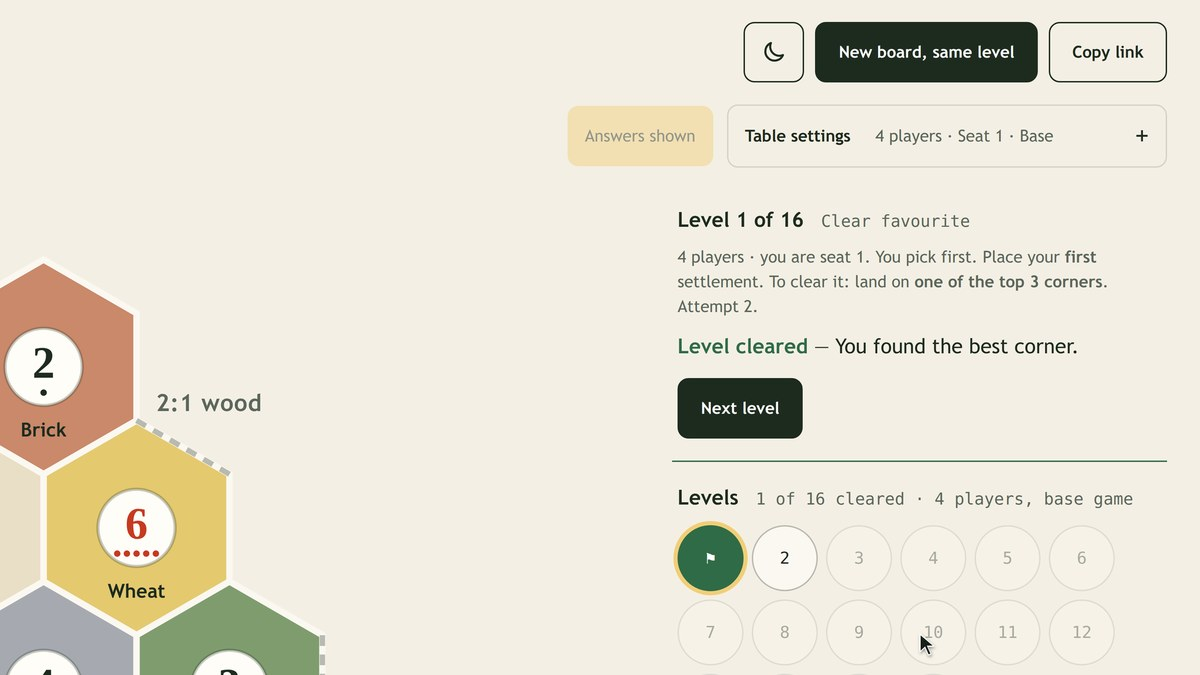
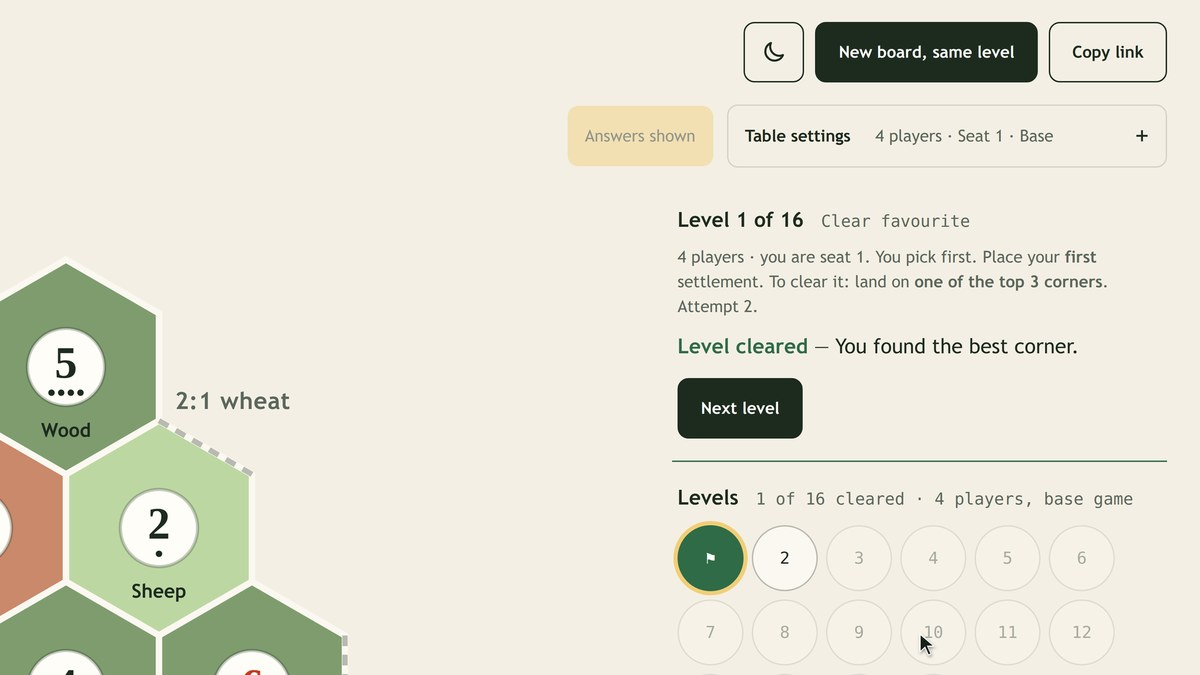
Show the road slots in both demo videos and the Drill still
Both videos are re-recorded so the dashed road slots and the road prompt
appear after each Keep. No scene places a road; narration, captions,
transcripts and posters are unchanged, and both videos passed all eight
acceptance checks again. The recorder now stops if a scripted corner
click would land on anything but the corner, if any scripted click lays a
road, or if Keep does not add exactly one settlement that stays on
screen. Only the Drill still in the README changed, because Drill deals a
fresh board on every recording.

Changed region(s): [[0.0, 0.3733, 0.3083, 1.0]]

diff --git a/video/README.md b/video/README.md
@@ -47,6 +47,16 @@ video/.venv/bin/python video/qa.py --ffmpeg ffmpeg
 video/.venv/bin/python video/readme_media.py
 ```
 
+Refreshing the pictures only (the app's screens changed, the narration did not): keep the cached narration,
+then run steps 2 to 6, which re-record, re-render, re-check and redraw the README images. Before publishing, read
+each transcript (`video/out/<id>.txt`) against the new pictures; reuse a line that is still accurate, and if a
+picture now contradicts one, re-voice only that line (`narrate.py --resume`). The recorder stops if a scripted
+corner click would land on anything but the corner (road slots sit on the board after Keep), if any scripted
+click lays a road, or if Keep does not add exactly one settlement that stays on screen. Then require all eight
+acceptance checks and watch both videos and look at every README image yourself. The videos and images are
+binary files made by this local pipeline; record the actual results below and leave any unfinished media work
+visibly pending rather than describing it as done.
+
 `video/out/*.vtt`, `*.txt` and `*.jpg` go into `public/media/`. The MP4s are attached to a GitHub Release; the Pages
 workflow copies them into the published site, so they never enter git history.
 For local playback checks, also copy the MP4s into `public/media/`. The local server supports seeking;
@@ -114,3 +124,13 @@ takes (4 to 7 of 12, against 9 of 12), so the defaults stay. Because the overvie
 is now shorter, it frames the first-builds row on "first builds" and the income section on "Income is an
 average", giving each camera move time to arrive. These checks still do not establish natural-sounding
 speech.
+
+A second 2026-10-12 refresh updates only the pictures for starting-road placement. After each Keep, the free
+sides of a kept settlement now show as dashed road slots, and the card invites you to place your starting
+road. A kept settlement's suggested road is now worked out as of its own turn, so in the overview the first
+settlement's road no longer switches sides when the second settlement is kept. No scene places a road, and
+the narration, captions, transcripts and posters are byte-for-byte unchanged. The narration was reviewed
+against the new pictures and still describes them accurately. Both videos stay 59.2 and 157.9 seconds and
+again passed all eight acceptance checks, including 173/173 and 472/472 recognised words, 3/3 and 2/2 names
+heard as cuh-TAHN, and all 21/52 caption cues. Of the README images, only the Drill still changed: Drill
+deals a fresh random board on every recording.
